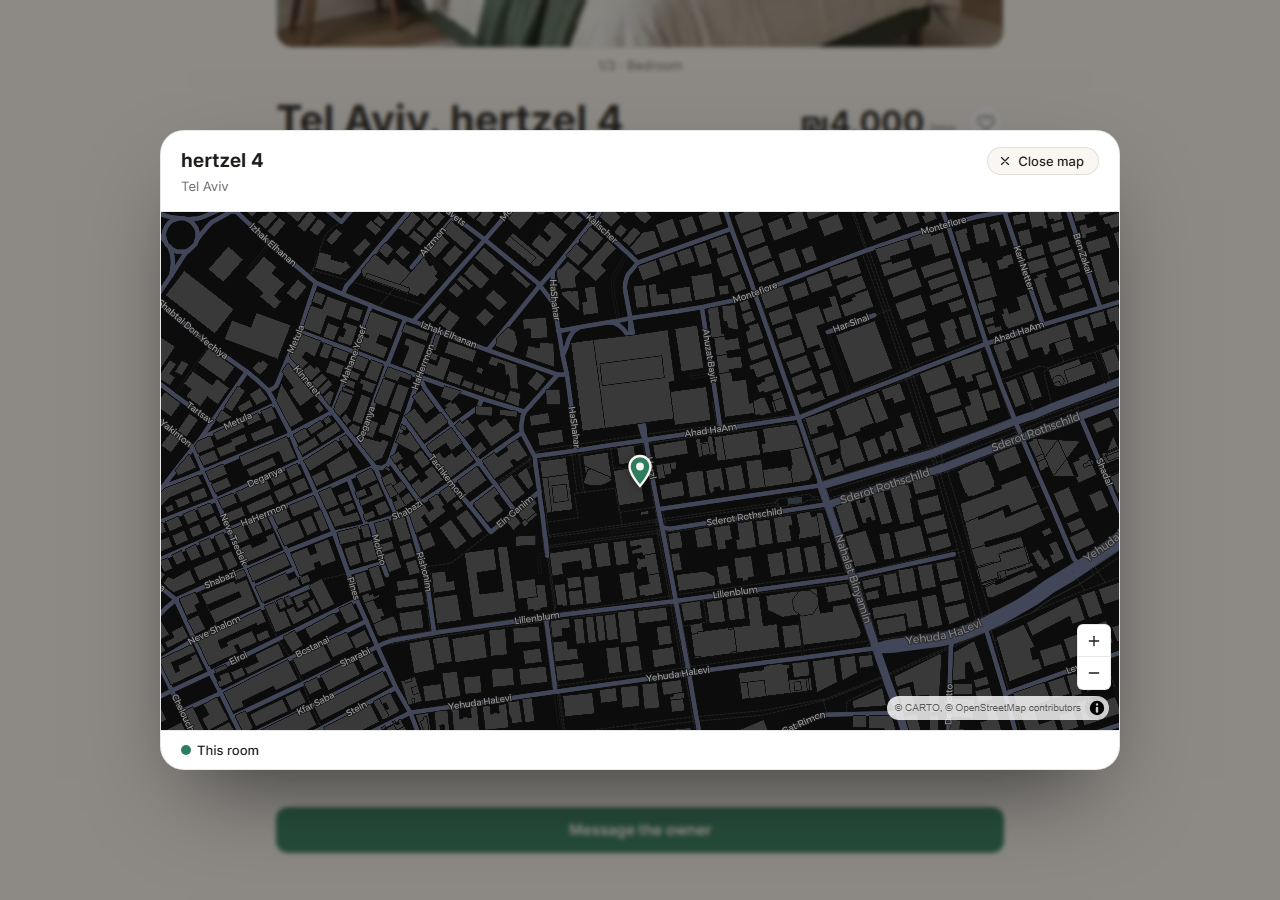
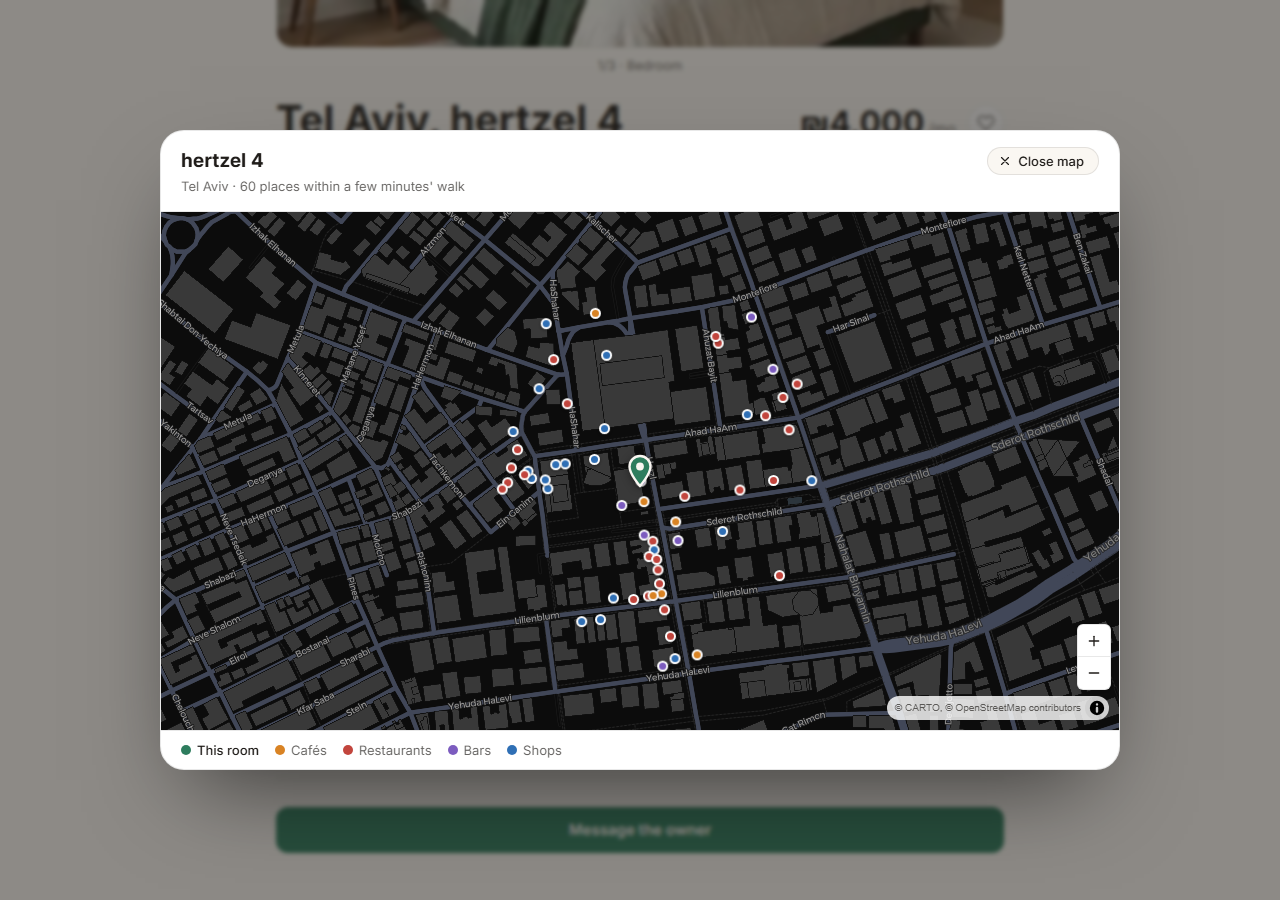
auto: 2026-08-28 15:23 · 3 file(s) changed

diff --git a/docs/HANDOVER.md b/docs/HANDOVER.md
@@ -42,7 +42,7 @@ Next.js 16.3.2 App Router (Turbopack; `proxy.ts` replaces `middleware.ts`; `para
   - **City centres.** `lib/city-centres.ts` holds a point for all 124 cities, generated once by `scripts/geocode-cities.mjs`. Twelve of them are hand-pinned in that script's `OVERRIDES`: with `countrycodes=il` the lookup answers West Bank towns with nothing, or with a *different* town's coordinates (Givat Ze'ev came back as Kiryat Shmona). `tests/unit/city-centres.test.ts` guards the whole table — inside the country, no duplicates, spot checks.
   - **Basemaps: mapcn's own, in English.** CARTO **Positron** / **Dark Matter**, keyless. There was a detour through OpenFreeMap Liberty to get café labels; the user rejected it ("the map is wrong, it's not the mapcn as before") and it was reverted the same day. CARTO's published styles print the tiles' local `name`, which in Israel is Hebrew, so `scripts/build-english-basemaps.mjs` (`npm run basemap:english`) rewrites every symbol layer's `text-field` to **`["get", "name:en"]`** and writes `public/maplibre/positron-en.json` + `dark-matter-en.json`, which we serve. **Committed, never a build step** — `/scripts` isn't on Vercel.
     - **`name:en` and nothing else.** Every wider net puts the Hebrew back, and this took three passes to find: `name` is the local name; `name_en` is OpenMapTiles' older field and is *defined* as English-or-the-local-name; `name:latin` does the same for scripts it can't transliterate, and Hebrew is one. Two of those were still in the coalesce when a lone green park label reading "גן גבעות" survived on an otherwise English map of Acre — which is what finally identified `name_en`. Cost of dropping them: almost nothing, because `name:en` is on nearly every Israeli street (Katzrin 101/101, Rosh Pinna 121/124, measured against OSM). A feature nobody has named in English simply goes unlabelled.
-  - **Places come from us, not the basemap.** Positron deliberately draws almost no businesses, so `app/api/places/route.ts` asks Overpass for cafés, restaurants, bars and shops within 400 m of the room and `RoomMap` draws them as its own pins — cafés amber, restaurants red, bars purple, shops blue, with a legend that only names the kinds actually on the map. The room itself is the accent, teardrop, larger, drawn last (`.room-pin` in `globals.css` for the stacking). Parsing lives in `lib/places.ts` and is pure, so it's tested without the network. **The route never fails**: any error is an empty list cached for a minute (a real answer is cached for a day), so the map still opens with the room on it. It asks three Overpass mirrors **hedged** — the next one joins in only after 3.5 s of silence, first real answer wins — because trying them strictly in turn let one wedged mirror eat the whole budget before a working one was asked. Names are English-only — a place with no `name:en` and a Hebrew `name` keeps its pin and is labelled by kind ("Café").
+  - **Places come from us, not the basemap.** Positron deliberately draws almost no businesses, so `app/api/places/route.ts` asks Overpass for cafés, restaurants, bars and shops within 400 m of the room and `RoomMap` draws them as its own pins — cafés amber, restaurants red, bars purple, shops blue, with a legend that only names the kinds actually on the map. The room itself is the accent, teardrop, larger, drawn last (`.room-pin` in `globals.css` for the stacking). Parsing lives in `lib/places.ts` and is pure, so it's tested without the network. **The route never fails**: any error is an empty list, so the map still opens with the room on it. It asks three Overpass mirrors **hedged** — the next one joins in only after 3.5 s of silence, first real answer wins — because trying them strictly in turn let one wedged mirror eat the whole budget before a working one was asked. Two things matter for reliability, both learned by watching a Tel Aviv room show zero cafés: the answer carries `ok`, so "nobody answered" is told apart from "this street really is empty" and the client retries the first once; and a failure is sent `no-store`, because caching it for even a minute let the CDN keep serving an empty map long after Overpass had recovered. Names are English-only — a place with no `name:en` and a Hebrew `name` keeps its pin and is labelled by kind ("Café").
   - **The cluster font follows the style.** MapLibre can only draw a font the style's own glyph server has, and the counts silently vanish when it can't. `CLUSTER_FONT` is back to "Open Sans Semibold" now that CARTO serves the glyphs; the `clusterTextFont` prop stays, because the next basemap change will need it again.
   - **Colours have to be copied, not referenced.** MapLibre paints in WebGL, so `var(--accent)` means nothing to it: `MAP_COLORS` in `basemap.ts` holds the hexes, and `tests/unit/map-basemap.test.ts` fails if they drift from `globals.css`.
   - **Clustering is MapLibre's own** (`MapClusterLayer`), which is what lets one map hold 800+ rooms: the points live in a GL layer, not in 800 DOM markers. `lib/cluster.ts` and the hand-rolled grid clustering it held are gone, along with the two Leaflet-era traps they came with (overlapping unclickable circles, and a fitBounds that fired before the zoom listener existed).
